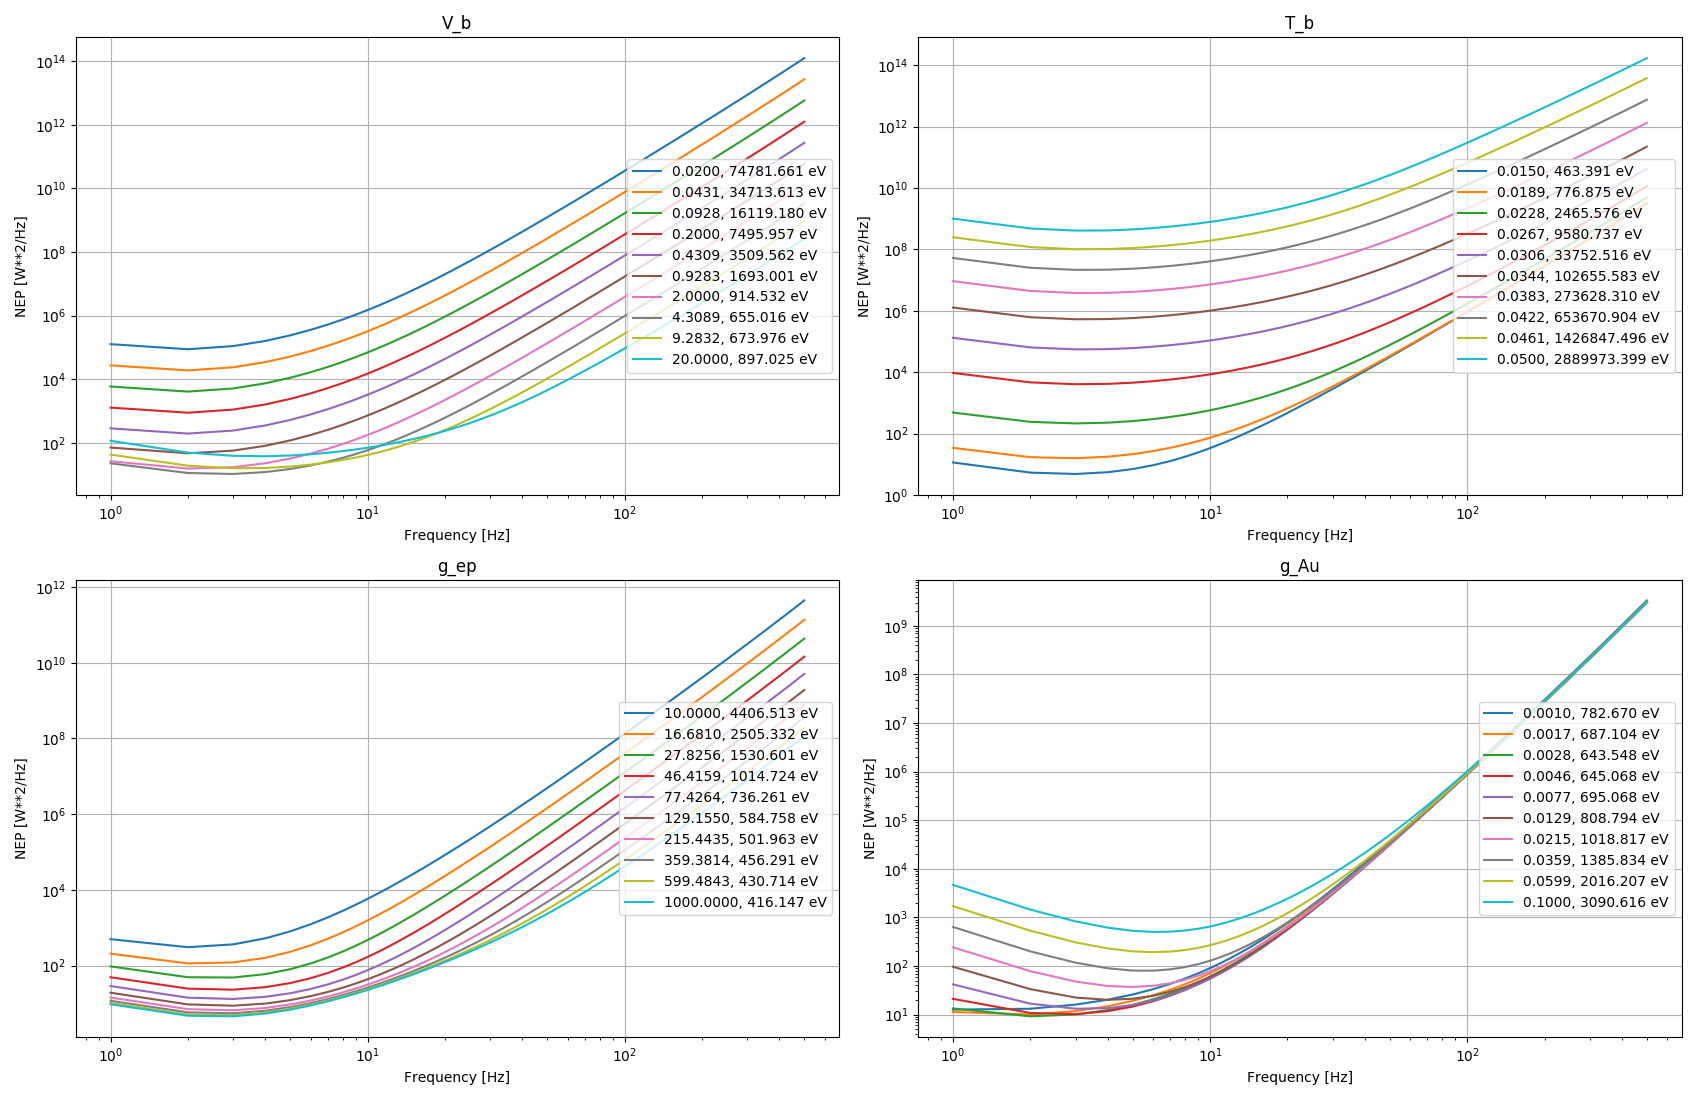
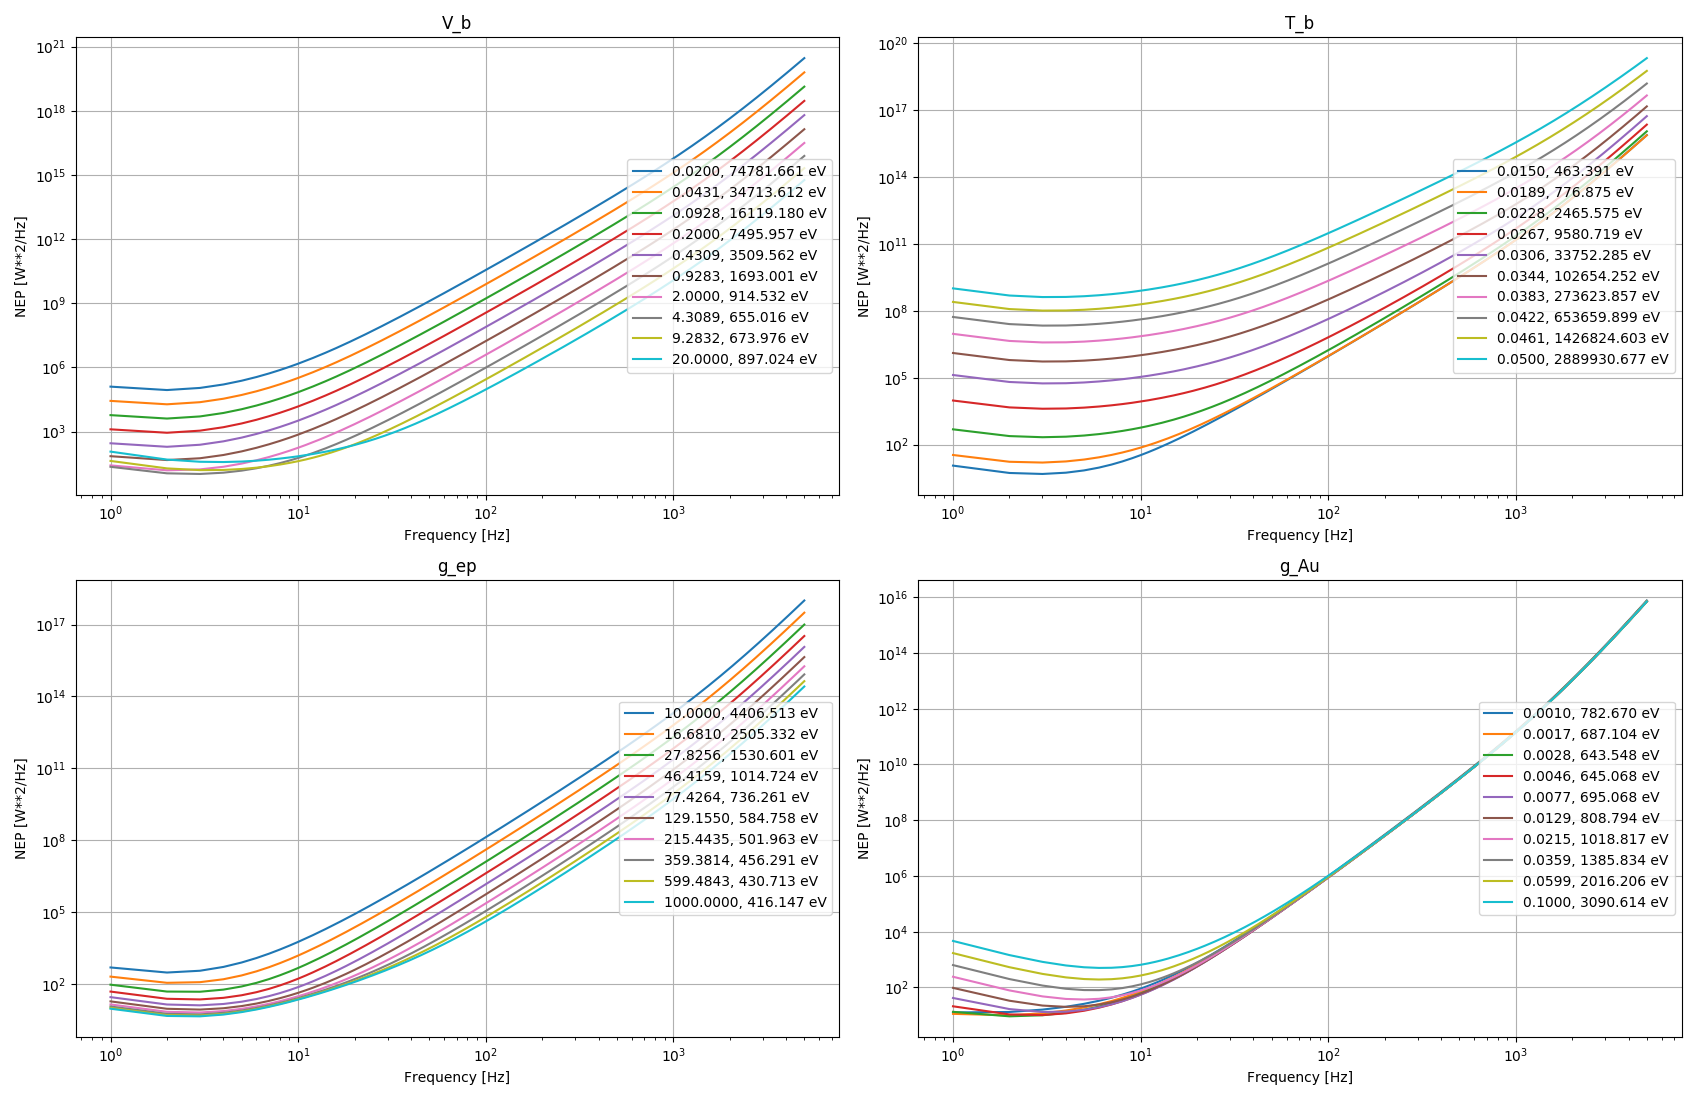
Coming back to ethem on 28-03-2019.

diff --git a/ethem/red_tm/sum_up_param.py b/ethem/red_tm/sum_up_param.py
@@ -26,7 +26,7 @@ plt.close('all')
 # PARAMETERS
 #==============================================================================
 L = 1
-fs = 1e3
+fs = 1e4
 
 #%%
 #==============================================================================
@@ -555,13 +555,16 @@ def test_nep_ref_param():
         )
 
         nep_param = eth.nep_ref_param(param_sym, evad, ref_bath)
+        res_param = eth.res_ref_param(param_sym, evad, ref_bath, fs, L)
 
         for p in tqdm.tqdm(param_arrays[ind]):
 
             nfun = nep_param((p,))
             nep_array = nfun(freq_array)
 
-            res = eth.nep_to_res(freq_array, nep_array)
+#            res = eth.nep_to_res(freq_array, nep_array)
+            res = res_param((p,))
+
             res_ev = res * config.energy.subs(evad) / 1.6e-19
             ax.loglog(freq_array, nep_array, label='{0:.4f}, {1:.3f} eV'.format(p, res_ev))
 
@@ -605,7 +608,7 @@ if __name__ == '__main__':
 #
 #    test_noise_tot_param()
 #
-#    fa, na = test_nep_ref_param()
+    fa, na = test_nep_ref_param()
 
     print 'Done.'
 

diff --git a/ethem/first_order.py b/ethem/first_order.py
@@ -924,13 +924,15 @@ def res_ref(per, eval_dict, fs, L, ref_bath, flim):
     return res
 
 
-def res_ref_param(param, eval_dict, fs, L, ref_bath, flim):
+def res_ref_param(param, eval_dict, ref_bath, fs, L, flim=None):
 
-    freq_array, nep_array_fun = nep_ref_param(param, eval_dict, fs, L, ref_bath)
+    freq_array = np.flip(np.arange(fs/2., 0, -L**-1), axis=0)
+
+    nep_array_fun = nep_ref_param(param, eval_dict, ref_bath)
 
     def res_ref_fun(p):
-        nep_array = nep_array_fun(p)
-        res = nep_to_res(freq_array, nep_array, flim)
+        nep_array = nep_array_fun(p)(freq_array)
+        res = nep_to_res(freq_array, nep_array, flim=flim)
         return res
 
     return res_ref_fun
